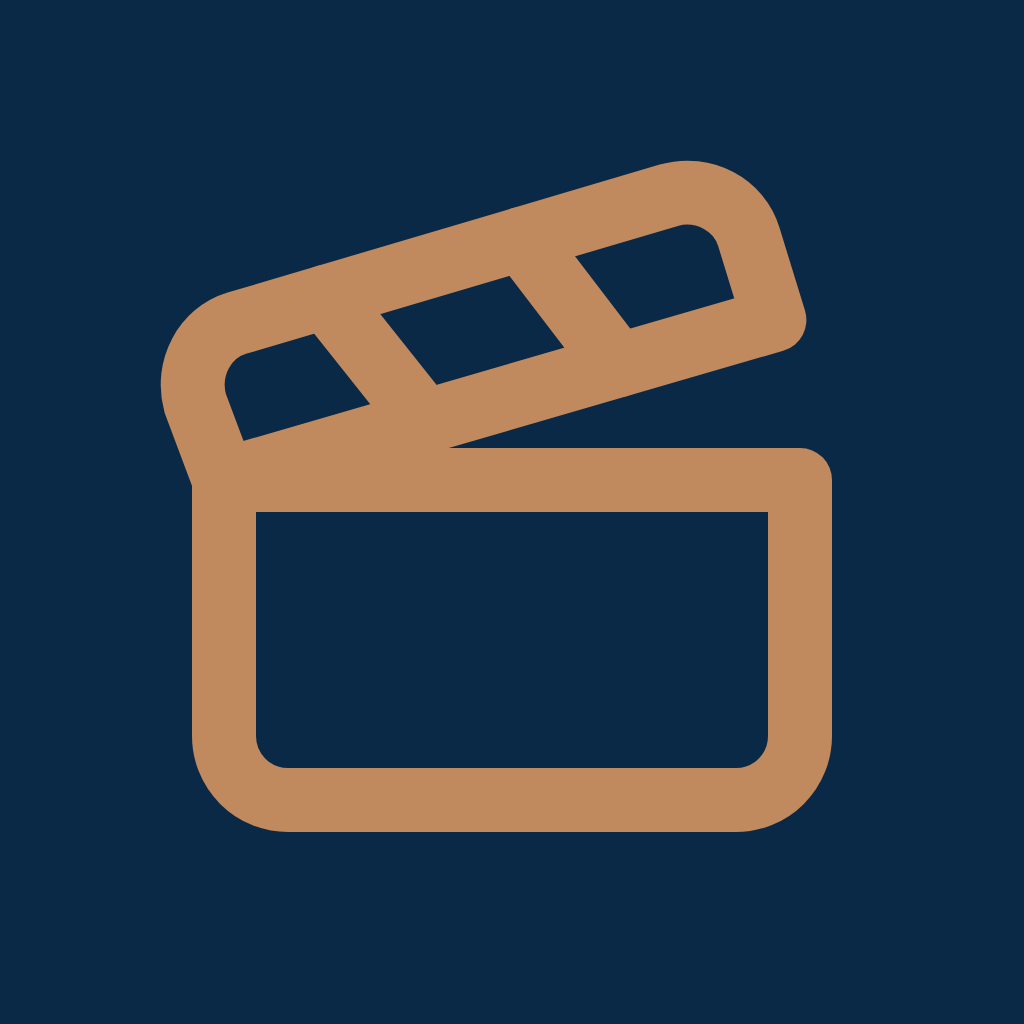
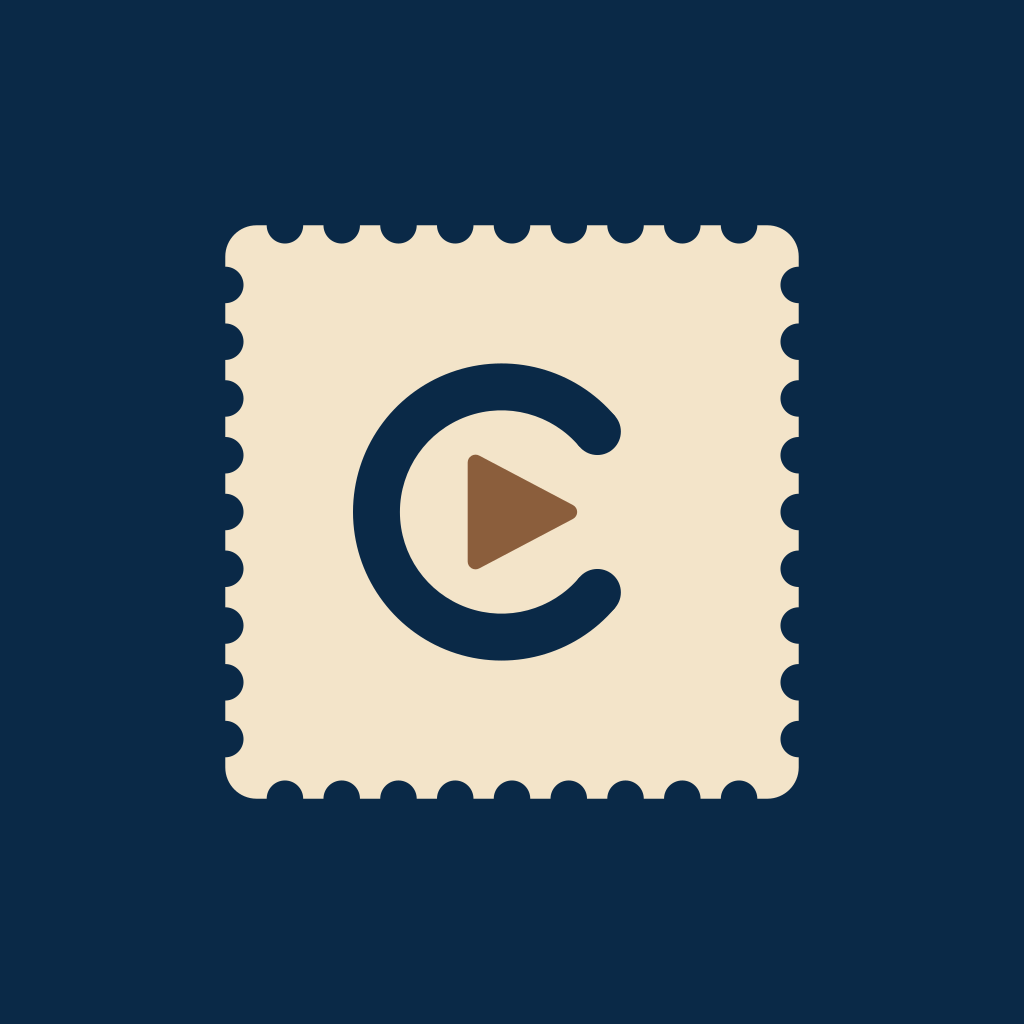
fix: app name and log

diff --git a/src/components/atoms/logo-paths.ts b/src/components/atoms/logo-paths.ts
@@ -1,0 +1,11 @@
+export const stampPath =
+  "M6 0L7.944 0A3.5 3.5 0 0 0 14.944 0L18.833 0A3.5 3.5 0 0 0 25.833 0L29.722 0A3.5 3.5 0 0 0 36.722 0L40.611 0A3.5 3.5 0 0 0 47.611 0L51.5 0A3.5 3.5 0 0 0 58.5 0L62.389 0A3.5 3.5 0 0 0 69.389 0L73.278 0A3.5 3.5 0 0 0 80.278 0L84.167 0A3.5 3.5 0 0 0 91.167 0L95.056 0A3.5 3.5 0 0 0 102.056 0L104 0A6 6 0 0 1 110 6L110 7.944A3.5 3.5 0 0 0 110 14.944L110 18.833A3.5 3.5 0 0 0 110 25.833L110 29.722A3.5 3.5 0 0 0 110 36.722L110 40.611A3.5 3.5 0 0 0 110 47.611L110 51.5A3.5 3.5 0 0 0 110 58.5L110 62.389A3.5 3.5 0 0 0 110 69.389L110 73.278A3.5 3.5 0 0 0 110 80.278L110 84.167A3.5 3.5 0 0 0 110 91.167L110 95.056A3.5 3.5 0 0 0 110 102.056L110 104A6 6 0 0 1 104 110L102.056 110A3.5 3.5 0 0 0 95.056 110L91.167 110A3.5 3.5 0 0 0 84.167 110L80.278 110A3.5 3.5 0 0 0 73.278 110L69.389 110A3.5 3.5 0 0 0 62.389 110L58.5 110A3.5 3.5 0 0 0 51.5 110L47.611 110A3.5 3.5 0 0 0 40.611 110L36.722 110A3.5 3.5 0 0 0 29.722 110L25.833 110A3.5 3.5 0 0 0 18.833 110L14.944 110A3.5 3.5 0 0 0 7.944 110L6 110A6 6 0 0 1 0 104L0 102.056A3.5 3.5 0 0 0 0 95.056L0 91.167A3.5 3.5 0 0 0 0 84.167L0 80.278A3.5 3.5 0 0 0 0 73.278L0 69.389A3.5 3.5 0 0 0 0 62.389L0 58.5A3.5 3.5 0 0 0 0 51.5L0 47.611A3.5 3.5 0 0 0 0 40.611L0 36.722A3.5 3.5 0 0 0 0 29.722L0 25.833A3.5 3.5 0 0 0 0 18.833L0 14.944A3.5 3.5 0 0 0 0 7.944L0 6A6 6 0 0 1 6 0Z";
+
+export const cPath =
+  "M74.832 36.681A28.5 28.5 0 1 0 74.832 73.319L67.938 67.534A19.5 19.5 0 1 1 67.938 42.466Z";
+
+export const playPath =
+  "M48.7 44.173L66.7 53.673A1.5 1.5 0 0 1 66.7 56.327L48.7 65.827A1.5 1.5 0 0 1 46.5 64.5L46.5 45.5A1.5 1.5 0 0 1 48.7 44.173Z";
+
+export const wordmarkPath =
+  "M137.12 55.04Q137.12 45.88 141.25 38.62Q145.39 31.37 152.56 27.32Q159.72 23.27 168.62 23.27L168.62 23.27Q179.03 23.27 186.87 28.61Q194.70 33.95 197.81 43.39L197.81 43.39L183.48 43.39Q181.35 38.94 177.48 36.71Q173.60 34.49 168.53 34.49L168.53 34.49Q163.10 34.49 158.88 37.02Q154.65 39.56 152.29 44.19Q149.93 48.81 149.93 55.04L149.93 55.04Q149.93 61.19 152.29 65.86Q154.65 70.53 158.88 73.07Q163.10 75.60 168.53 75.60L168.53 75.60Q173.60 75.60 177.48 73.33Q181.35 71.06 183.48 66.61L183.48 66.61L197.81 66.61Q194.70 76.14 186.91 81.43Q179.12 86.73 168.62 86.73L168.62 86.73Q159.72 86.73 152.56 82.68Q145.39 78.63 141.25 71.42Q137.12 64.21 137.12 55.04L137.12 55.04ZM214.81 31.01Q211.52 31.01 209.34 28.92Q207.16 26.83 207.16 23.72L207.16 23.72Q207.16 20.60 209.34 18.51Q211.52 16.42 214.81 16.42L214.81 16.42Q218.11 16.42 220.29 18.51Q222.47 20.60 222.47 23.72L222.47 23.72Q222.47 26.83 220.29 28.92Q218.11 31.01 214.81 31.01L214.81 31.01ZM208.49 36.89L220.95 36.89L220.95 86.19L208.49 86.19L208.49 36.89ZM260.56 36.18Q269.37 36.18 274.80 41.74Q280.23 47.30 280.23 57.27L280.23 57.27L280.23 86.19L267.77 86.19L267.77 58.96Q267.77 53.09 264.83 49.93Q261.89 46.77 256.82 46.77L256.82 46.77Q251.66 46.77 248.68 49.93Q245.69 53.09 245.69 58.96L245.69 58.96L245.69 86.19L233.23 86.19L233.23 36.89L245.69 36.89L245.69 43.03Q248.19 39.83 252.06 38.00Q255.93 36.18 260.56 36.18L260.56 36.18ZM337.90 60.47Q337.90 63.14 337.54 65.28L337.54 65.28L301.50 65.28Q301.94 70.62 305.24 73.65Q308.53 76.67 313.33 76.67L313.33 76.67Q320.28 76.67 323.21 70.71L323.21 70.71L336.65 70.71Q334.52 77.83 328.46 82.41Q322.41 87.00 313.60 87.00L313.60 87.00Q306.48 87.00 300.83 83.84Q295.18 80.68 292.02 74.89Q288.86 69.11 288.86 61.54L288.86 61.54Q288.86 53.89 291.98 48.10Q295.09 42.32 300.70 39.20Q306.30 36.09 313.60 36.09L313.60 36.09Q320.63 36.09 326.20 39.11Q331.76 42.14 334.83 47.70Q337.90 53.26 337.90 60.47L337.90 60.47ZM301.59 56.91L324.99 56.91Q324.90 52.11 321.52 49.22Q318.14 46.32 313.25 46.32L313.25 46.32Q308.62 46.32 305.46 49.13Q302.30 51.93 301.59 56.91L301.59 56.91ZM365.85 87.00Q359.79 87.00 354.99 84.82Q350.18 82.63 347.38 78.90Q344.57 75.16 344.31 70.62L344.31 70.62L356.86 70.62Q357.21 73.47 359.66 75.34Q362.11 77.21 365.76 77.21L365.76 77.21Q369.32 77.21 371.32 75.78Q373.32 74.36 373.32 72.13L373.32 72.13Q373.32 69.73 370.87 68.53Q368.43 67.33 363.09 65.90L363.09 65.90Q357.57 64.57 354.05 63.14Q350.54 61.72 348.00 58.78Q345.46 55.85 345.46 50.86L345.46 50.86Q345.46 46.77 347.82 43.39Q350.18 40.00 354.59 38.05Q358.99 36.09 364.96 36.09L364.96 36.09Q373.77 36.09 379.02 40.49Q384.27 44.90 384.80 52.37L384.80 52.37L372.88 52.37Q372.61 49.44 370.43 47.70Q368.25 45.97 364.60 45.97L364.60 45.97Q361.22 45.97 359.39 47.21Q357.57 48.46 357.57 50.68L357.57 50.68Q357.57 53.18 360.06 54.47Q362.55 55.76 367.80 57.09L367.80 57.09Q373.14 58.43 376.61 59.85Q380.09 61.27 382.62 64.26Q385.16 67.24 385.25 72.13L385.25 72.13Q385.25 76.40 382.89 79.79Q380.53 83.17 376.12 85.08Q371.72 87.00 365.85 87.00L365.85 87.00ZM421.02 47.12L409.99 47.12L409.99 70.98Q409.99 73.47 411.19 74.58Q412.39 75.69 415.24 75.69L415.24 75.69L421.02 75.69L421.02 86.19L413.19 86.19Q397.44 86.19 397.44 70.89L397.44 70.89L397.44 47.12L391.57 47.12L391.57 36.89L397.44 36.89L397.44 24.70L409.99 24.70L409.99 36.89L421.02 36.89L421.02 47.12ZM426.81 61.36Q426.81 53.89 429.79 48.10Q432.77 42.32 437.89 39.20Q443.01 36.09 449.33 36.09L449.33 36.09Q454.84 36.09 458.98 38.31Q463.12 40.54 465.61 43.92L465.61 43.92L465.61 36.89L478.16 36.89L478.16 86.19L465.61 86.19L465.61 78.99Q463.21 82.46 458.98 84.73Q454.76 87.00 449.24 87.00L449.24 87.00Q443.01 87.00 437.89 83.79Q432.77 80.59 429.79 74.76Q426.81 68.93 426.81 61.36L426.81 61.36ZM465.61 61.54Q465.61 57.00 463.83 53.75Q462.05 50.51 459.03 48.77Q456.00 47.03 452.53 47.03L452.53 47.03Q449.06 47.03 446.12 48.73Q443.19 50.42 441.36 53.67Q439.54 56.91 439.54 61.36L439.54 61.36Q439.54 65.81 441.36 69.15Q443.19 72.49 446.17 74.27Q449.15 76.05 452.53 76.05L452.53 76.05Q456.00 76.05 459.03 74.31Q462.05 72.58 463.83 69.33Q465.61 66.08 465.61 61.54L465.61 61.54ZM551.59 36.18Q560.67 36.18 566.23 41.74Q571.79 47.30 571.79 57.27L571.79 57.27L571.79 86.19L559.33 86.19L559.33 58.96Q559.33 53.18 556.39 50.11Q553.46 47.03 548.38 47.03L548.38 47.03Q543.31 47.03 540.33 50.11Q537.35 53.18 537.35 58.96L537.35 58.96L537.35 86.19L524.89 86.19L524.89 58.96Q524.89 53.18 521.95 50.11Q519.01 47.03 513.94 47.03L513.94 47.03Q508.78 47.03 505.80 50.11Q502.82 53.18 502.82 58.96L502.82 58.96L502.82 86.19L490.36 86.19L490.36 36.89L502.82 36.89L502.82 42.85Q505.22 39.74 509.00 37.96Q512.78 36.18 517.32 36.18L517.32 36.18Q523.11 36.18 527.65 38.62Q532.19 41.07 534.68 45.61L534.68 45.61Q537.08 41.34 541.66 38.76Q546.25 36.18 551.59 36.18L551.59 36.18ZM596.09 44.01Q598.49 40.63 602.72 38.36Q606.95 36.09 612.38 36.09L612.38 36.09Q618.69 36.09 623.81 39.20Q628.93 42.32 631.91 48.06Q634.89 53.80 634.89 61.36L634.89 61.36Q634.89 68.93 631.91 74.76Q628.93 80.59 623.81 83.79Q618.69 87.00 612.38 87.00L612.38 87.00Q606.95 87.00 602.81 84.77Q598.67 82.55 596.09 79.16L596.09 79.16L596.09 109.69L583.63 109.69L583.63 36.89L596.09 36.89L596.09 44.01ZM622.16 61.36Q622.16 56.91 620.34 53.67Q618.52 50.42 615.53 48.73Q612.55 47.03 609.08 47.03L609.08 47.03Q605.70 47.03 602.72 48.77Q599.74 50.51 597.91 53.80Q596.09 57.09 596.09 61.54L596.09 61.54Q596.09 65.99 597.91 69.28Q599.74 72.58 602.72 74.31Q605.70 76.05 609.08 76.05L609.08 76.05Q612.55 76.05 615.53 74.27Q618.52 72.49 620.34 69.20Q622.16 65.90 622.16 61.36L622.16 61.36Z";

diff --git a/src/components/atoms/logo.tsx b/src/components/atoms/logo.tsx
@@ -1,31 +1,31 @@
-import { Clapperboard } from "lucide-react-native";
 import { View } from "react-native";
-import { Icon } from "@/components/atoms/icon";
-import { Text } from "@/components/atoms/text";
-import { cn } from "@/lib/style/cn";
+import Svg, { Path } from "react-native-svg";
+import { wordmarkPath } from "@/components/atoms/logo-paths";
+import { StampShapes } from "@/components/atoms/stamp-shapes";
+import { useCssVariable } from "@/hooks/use-css-variable";
 
 type LogoProps = {
   name: string;
   large?: boolean;
-  className?: string;
 };
 
-export function Logo({ name, large, className }: LogoProps) {
+const aspectRatio = 634.9 / 110;
+
+export function Logo({ name, large }: LogoProps) {
+  const foreground = useCssVariable("--foreground");
+  const background = useCssVariable("--background");
+  const height = large ? 32 : 24;
+
   return (
-    <View className={cn("flex-row items-center gap-2", className)}>
-      <Icon
-        icon={Clapperboard}
-        size={large ? 28 : 22}
-        className="text-primary"
-      />
-      <Text
-        className={cn(
-          "font-bold text-foreground",
-          large ? "text-2xl" : "text-[19px]",
-        )}
-      >
-        {name}
-      </Text>
+    <View accessible accessibilityLabel={name} accessibilityRole="image">
+      <Svg width={height * aspectRatio} height={height} viewBox="0 0 634.9 110">
+        <StampShapes
+          stampColor={foreground}
+          cColor={background}
+          playColor="#8b5e3c"
+        />
+        <Path d={wordmarkPath} fill={foreground} />
+      </Svg>
     </View>
   );
 }

diff --git a/src/components/atoms/stamp-shapes.tsx b/src/components/atoms/stamp-shapes.tsx
@@ -1,0 +1,24 @@
+import { Circle, Path } from "react-native-svg";
+import { cPath, playPath, stampPath } from "@/components/atoms/logo-paths";
+
+type StampShapesProps = {
+  stampColor: string;
+  cColor: string;
+  playColor: string;
+};
+
+export function StampShapes({
+  stampColor,
+  cColor,
+  playColor,
+}: StampShapesProps) {
+  return (
+    <>
+      <Path d={stampPath} fill={stampColor} />
+      <Path d={cPath} fill={cColor} />
+      <Circle cx="71.385" cy="39.573" r="4.5" fill={cColor} />
+      <Circle cx="71.385" cy="70.427" r="4.5" fill={cColor} />
+      <Path d={playPath} fill={playColor} />
+    </>
+  );
+}

diff --git a/README.md b/README.md
@@ -1,10 +1,10 @@
 <div align="center">
 
-# Cinelog
+# Cinestamp
 
 **English** | [日本語](README.ja.md)
 
-The mobile app of Cinelog, an app for keeping a record of the films you watch.<br/>Each record keeps the poster, viewing date, score, mood, and notes for a film.
+The mobile app of Cinestamp, an app for keeping a record of the films you watch.<br/>Each record keeps the poster, viewing date, score, mood, and notes for a film.
 
 ![Expo](https://img.shields.io/badge/Expo-57-0a2947?logo=expo&logoColor=f3e4c9)
 ![React Native](https://img.shields.io/badge/React_Native-0.86-0a2947?logo=react&logoColor=f3e4c9)
@@ -16,8 +16,8 @@ The mobile app of Cinelog, an app for keeping a record of the films you watch.<b
 
 </div>
 
-This repository contains the mobile app of Cinelog. It uses the
-[Cinelog API](https://github.com/masaya-nishimura-09/movie-log-api)
+This repository contains the mobile app of Cinestamp. It uses the
+[Cinestamp API](https://github.com/masaya-nishimura-09/movie-log-api)
 for data and can also run on its own with mock data.
 A [web app](https://github.com/masaya-nishimura-09/movie-log) is also available.
 
@@ -39,7 +39,7 @@ you have watched by those conditions. When someone asks
 
 ```mermaid
 flowchart LR
-    phone["Cinelog Mobile<br/>(Expo / React Native)"] --> api["Cinelog API<br/>(Go / Gin)"]
+    phone["Cinestamp Mobile<br/>(Expo / React Native)"] --> api["Cinestamp API<br/>(Go / Gin)"]
 ```
 
 The app calls the API directly. The access and refresh tokens are kept in
@@ -108,7 +108,7 @@ Font weights depend on the role of the text: 400 for body text,
 - Node.js 22.13 or later
 - pnpm
 - Expo Go on your phone
-- [Cinelog API](https://github.com/masaya-nishimura-09/movie-log-api)
+- [Cinestamp API](https://github.com/masaya-nishimura-09/movie-log-api)
   (not required in mock mode)
 
 ### Installation
@@ -140,7 +140,7 @@ and restart `pnpm start` after changing them.
 
 | Variable                   | Required | Description                                                                          |
 |----------------------------|----------|--------------------------------------------------------------------------------------|
-| `EXPO_PUBLIC_API_BASE_URL` | Required | Base URL of the Cinelog API, using the LAN address of your computer instead of `localhost` (not required in mock mode) |
+| `EXPO_PUBLIC_API_BASE_URL` | Required | Base URL of the Cinestamp API, using the LAN address of your computer instead of `localhost` (not required in mock mode) |
 | `EXPO_PUBLIC_USE_MOCK`     | Optional | Set to `true` to use mock data instead of the API                                    |
 | `EXPO_PUBLIC_MOCK_DATASET` | Optional | Set to `demo` to use the fictional demo films in mock mode                           |
 
